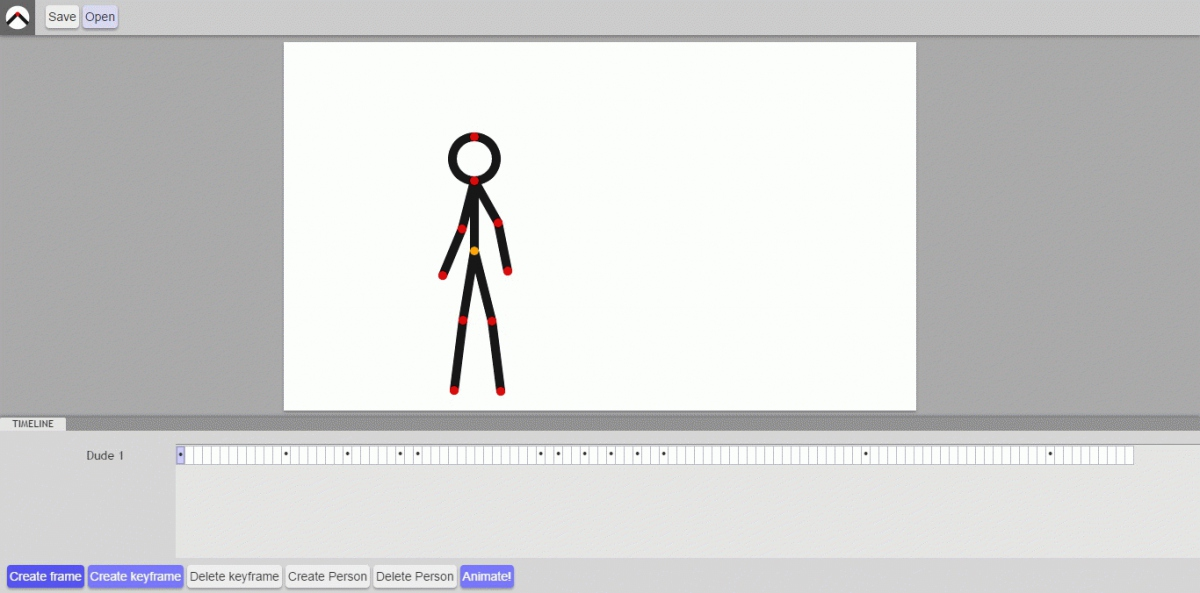
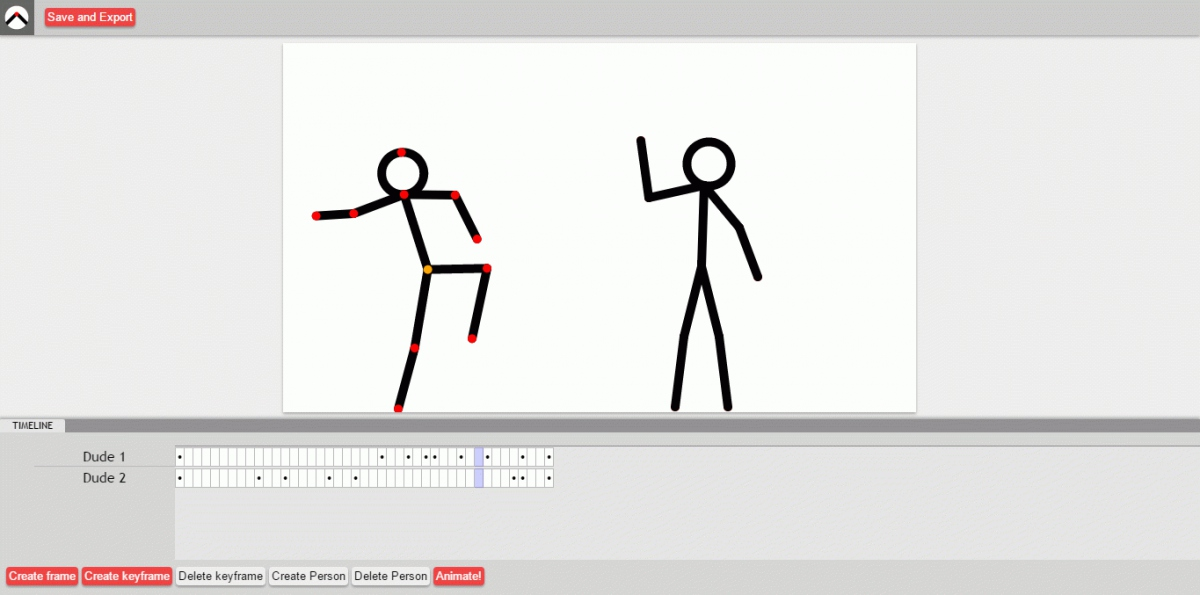
Reordered front page

diff --git a/index.html b/index.html
@@ -23,18 +23,7 @@
 <div class="section">
     <div class="wrapper">
         <h2>Web and Programming</h2>
-        <p>I'm a programmer, web designer and developer, and occasional game maker. I have demonstrated expertise in <strong>Javascript</strong>, <strong>HTML</strong>, and hand-crafted <strong>CSS</strong>, and I also have extensive experience in PHP, SQL, C++, Perl, and Actionscript 3.</p>
-        <div class="half left">
-            <div class="padding">
-                <p>I made the <a href="http://www.davepagurek.com/programming/xcalc-js/">XCalc.js Javascript library</a>, a computer algebra system which can parse, simplify, evaluate, differentiate, and graph mathematical expressions. Made with HTML, CSS and Javascript.</p>
-                <p align="center"><a class="button small" href="http://www.davepagurek.com/programming/xcalc-js/">View Documentation and Demo</a></p>
-            </div>
-        </div>
-        <div class="half right">
-            <div class="padding">
-                <div class="browser"><div class="winbutton"></div><div class="winbutton"></div><div class="winbutton"></div><div class="navbar">http://www.davepagurek.com/math/</div><a href="http://www.davepagurek.com/programming/xcalc-js/"><img src="%root%/content/images/2014/12/mathsolver-medium.jpg" /></a></div>
-            </div>
-        </div>
+        <p>I'm a programmer, web designer and developer, and occasional game maker. I have demonstrated expertise in <strong>Javascript</strong>, <strong>HTML</strong>, and hand-crafted <strong>CSS</strong>, and I also have extensive experience in Perl, SQL, C++, and Actionscript 3.</p>
         <div class="half left">
             <div class="padding">
                 <p>My website runs on <a href="http://davepagurek.com/programming/trestle">Trestle</a>, a lightweight Perl content management system featuring caching, templating, and an admin interface.</p>
@@ -44,6 +33,17 @@
         <div class="half right">
             <div class="padding centered">
                 <div class="browser"><div class="winbutton"></div><div class="winbutton"></div><div class="winbutton"></div><div class="navbar">http://www.davepagurek.com/programming/trestle/</div><a href="http://www.davepagurek.com/programming/trestle/"><img src="%root%/content/images/2015/2/trestle-admin-medium.jpg" /></a></div>
+            </div>
+        </div>
+	<div class="half left">
+            <div class="padding">
+                <p>I made <a href="http://www.davepagurek.com/programming/axis/">Axis</a>, a stick figure animator for interpolated keyframed animation. Made with HTML, CSS and Javascript on the frontend and Perl/Mojolicious on the backend.</p>
+                <p align="center"><a class="button small" href="http://www.davepagurek.com/programming/axis/">View Documentation and Demo</a></p>
+            </div>
+        </div>
+        <div class="half right">
+            <div class="padding">
+                <div class="browser"><div class="winbutton"></div><div class="winbutton"></div><div class="winbutton"></div><div class="navbar">http://www.davepagurek.com/axis/</div><a href="http://www.davepagurek.com/programming/axis/"><img src="%root%/content/images/2015/3/axis-medium.jpg" /></a></div>
             </div>
         </div>
         <p align="center"><a class="button" href="http://www.davepagurek.com/programming">View More Programming</a></p>

diff --git a/programming/axis.html b/programming/axis.html
@@ -16,7 +16,7 @@
 	],
 	"browser": {
 		"url": "http://axis.davepagurek.com/",
-		"image": "%root%/content/images/2015/3/axis.jpg"
+		"image": "%root%/content/images/2015/3/axis-large.jpg"
 	},
 	"buttons": [
 		{
